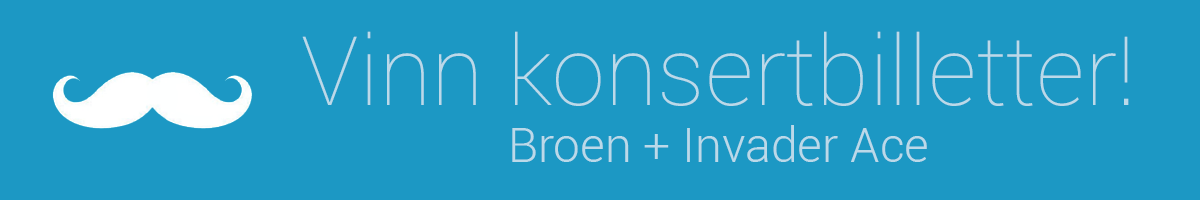
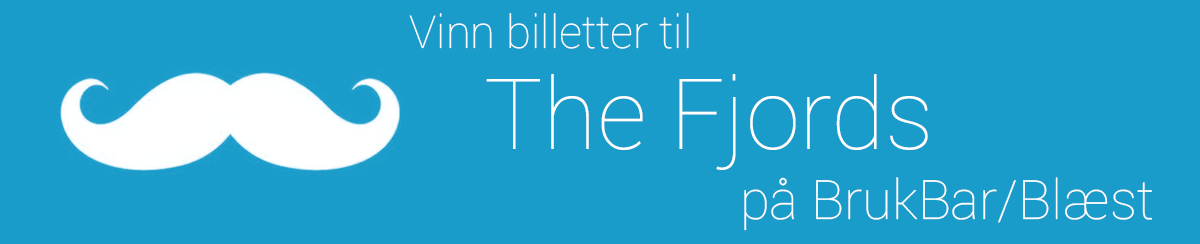
Added another competition. Moved promovideo one day down

diff --git a/app/views/competition.html b/app/views/competition.html
@@ -1,0 +1,45 @@
+<!--
+~ Copyright 2015 Studentmediene i Trondheim AS
+~
+~ Licensed under the Apache License, Version 2.0 (the "License");
+~ you may not use this file except in compliance with the License.
+~ You may obtain a copy of the License at
+~
+~ http://www.apache.org/licenses/LICENSE-2.0
+~
+~ Unless required by applicable law or agreed to in writing, software
+~ distributed under the License is distributed on an "AS IS" BASIS,
+~ WITHOUT WARRANTIES OR CONDITIONS OF ANY KIND, either express or implied.
+~ See the License for the specific language governing permissions and
+~ limitations under the License.
+-->
+
+<section class="col-md-8 col-md-offset-2">
+  <section class="content-wrapper">
+
+    <h1>Vinn billetter til The Fjords!</h1>
+    <img class="img-responsive" ng-src="images/TheFjords.png">
+    <small>Foto: Geir Mogen</small></br>
+    <p>Fredag 10. april spiller The Fjords på BrukBar/Blæst. Vi i Barteguiden er så heldige at vi
+
+      har mulighet til å dele ut 2 billetter hver til to heldige vinnere. </p>
+
+    <p>The Fjords fører lytteren gjennom gåtefulle farvann hvor understrømmet av menneskelig
+
+      lengsel avskjæres av dramatiske, nakne fjell. Drømmeaktige historier blir akkompagnert av
+
+      klokkeklare gitartoner, stødige synther og bass i en mektig elektronisk postproduksjon. Alt
+
+      bundet sammen av nær og ektefølt vokal. Nå kommer de med ny skive, og trøkket minker
+
+      nok ikke med det. Kom for å feire slippet fredag 10. april på BrukBar/Blæst!</p>
+    <div class=" embed-responsive embed-responsive-4by3">
+      <iframe class="embed-responsive-item" src="https://docs.google.com/forms/d/1mHZRpK8xIfmkNiYmfs8gZsHceE2jrwK5bKFBMWq9SpM/viewform?embedded=true"  marginheight="0" marginwidth="0">Laster inn ...</iframe>
+    </div>
+    <small><b>Problemer med å åpne innfyllingsskjemaet? <a href="https://docs.google.com/forms/d/1mHZRpK8xIfmkNiYmfs8gZsHceE2jrwK5bKFBMWq9SpM/viewform?usp=send_form">Klikk her</a></b></small>
+
+    <i><h5>For flere oppdateringen om kulturlivet i Trondheim kan du laste ned gratisappen til Barteguiden <a href="http://dusken.no/barteguiden/">her</a>.</h5>
+
+    Vi gjør oppmerksom på at Barteguiden eies av Studentmediene i Trondheim.</i>
+  </section>
+</section>

diff --git a/app/views/main.html b/app/views/main.html
@@ -113,13 +113,22 @@
               </dl>
             </div>
           </article>
-          <div class="content-wrapper" ng-show="$index === 0 && $parent.$index === 0">
+          <div class="content-wrapper" ng-show="$index === 0 && $parent.$index === 1">
             <header class="event-header">
               <div class="pull-left img-responsive promo-glyph"><span style="color: #1A9CCA" class="glyphicon glyphicon-facetime-video" aria-hidden="true"></span></div>
               <h3>Promofilm for Barteguiden</h3>
             </header>
             <div align="center" class="embed-responsive embed-responsive-16by9">
               <iframe width="854" height="510" src="https://www.youtube.com/embed/1GF8zcIdsF8" frameborder="0" allowfullscreen></iframe>
+            </div>
+          </div>
+          <div class="row">
+            <div class="col-md-12 col-xs-12" ng-show="$index === 0 && $parent.$index === 0">
+              <div class="banner-wrapper">
+                <div class="row">
+                  <a ng-href="/konkurranse"><img class="col-md-12 col-xs-12" src="images/konkurransebanner.png"></a>
+                </div>
+              </div>
             </div>
           </div>
         </div>

diff --git a/app/index.html b/app/index.html
@@ -57,6 +57,7 @@
         <nav id="navbar" class="collapse navbar-collapse" role="navigation">
 
           <ul class="nav navbar-nav navbar-right">
+            <li data-toggle="collapse" data-target=".in"><a style="font-weight: bold; color: #1A9CCA" ng-href="/konkurranse">KONKURRANSE</a></li>
             <li data-toggle="collapse" data-target=".in"><a ng-href="/om">Om</a></li>
             <li data-toggle="collapse" data-target=".in"><a ng-href="/kontakt">Kontakt</a></li>
           </ul>

diff --git a/app/scripts/app.js b/app/scripts/app.js
@@ -66,6 +66,10 @@ angular
         title: 'Kontakt Barteguiden',
         templateUrl: 'views/contact.html'
       })
+      .when('/konkurranse', {
+        title: 'Konkurranse - Vinn billetter til The Fjords på Brukbar/Blæst!',
+        templateUrl: 'views/competition.html'
+      })
       .otherwise({
         redirectTo: '/'
       });
